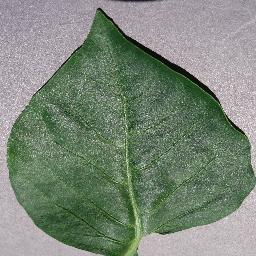
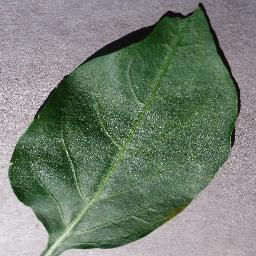
nuveeau seuil

diff --git a/cbir_api/main.py b/cbir_api/main.py
@@ -95,10 +95,10 @@ async def upload_gallery_image(
 ):
     # 1) Vérifier limite 5 images
     count = db.query(GalleryImage).filter_by(user_id=user_id).count()
-    if count >= 5:
+    if count >= 10:
         raise HTTPException(
             status_code=400,
-            detail="Tu as déjà 5 images dans ta galerie."
+            detail="Tu as déjà 10 images dans ta galerie."
         )
 
     # 2) Sauvegarder l'image
